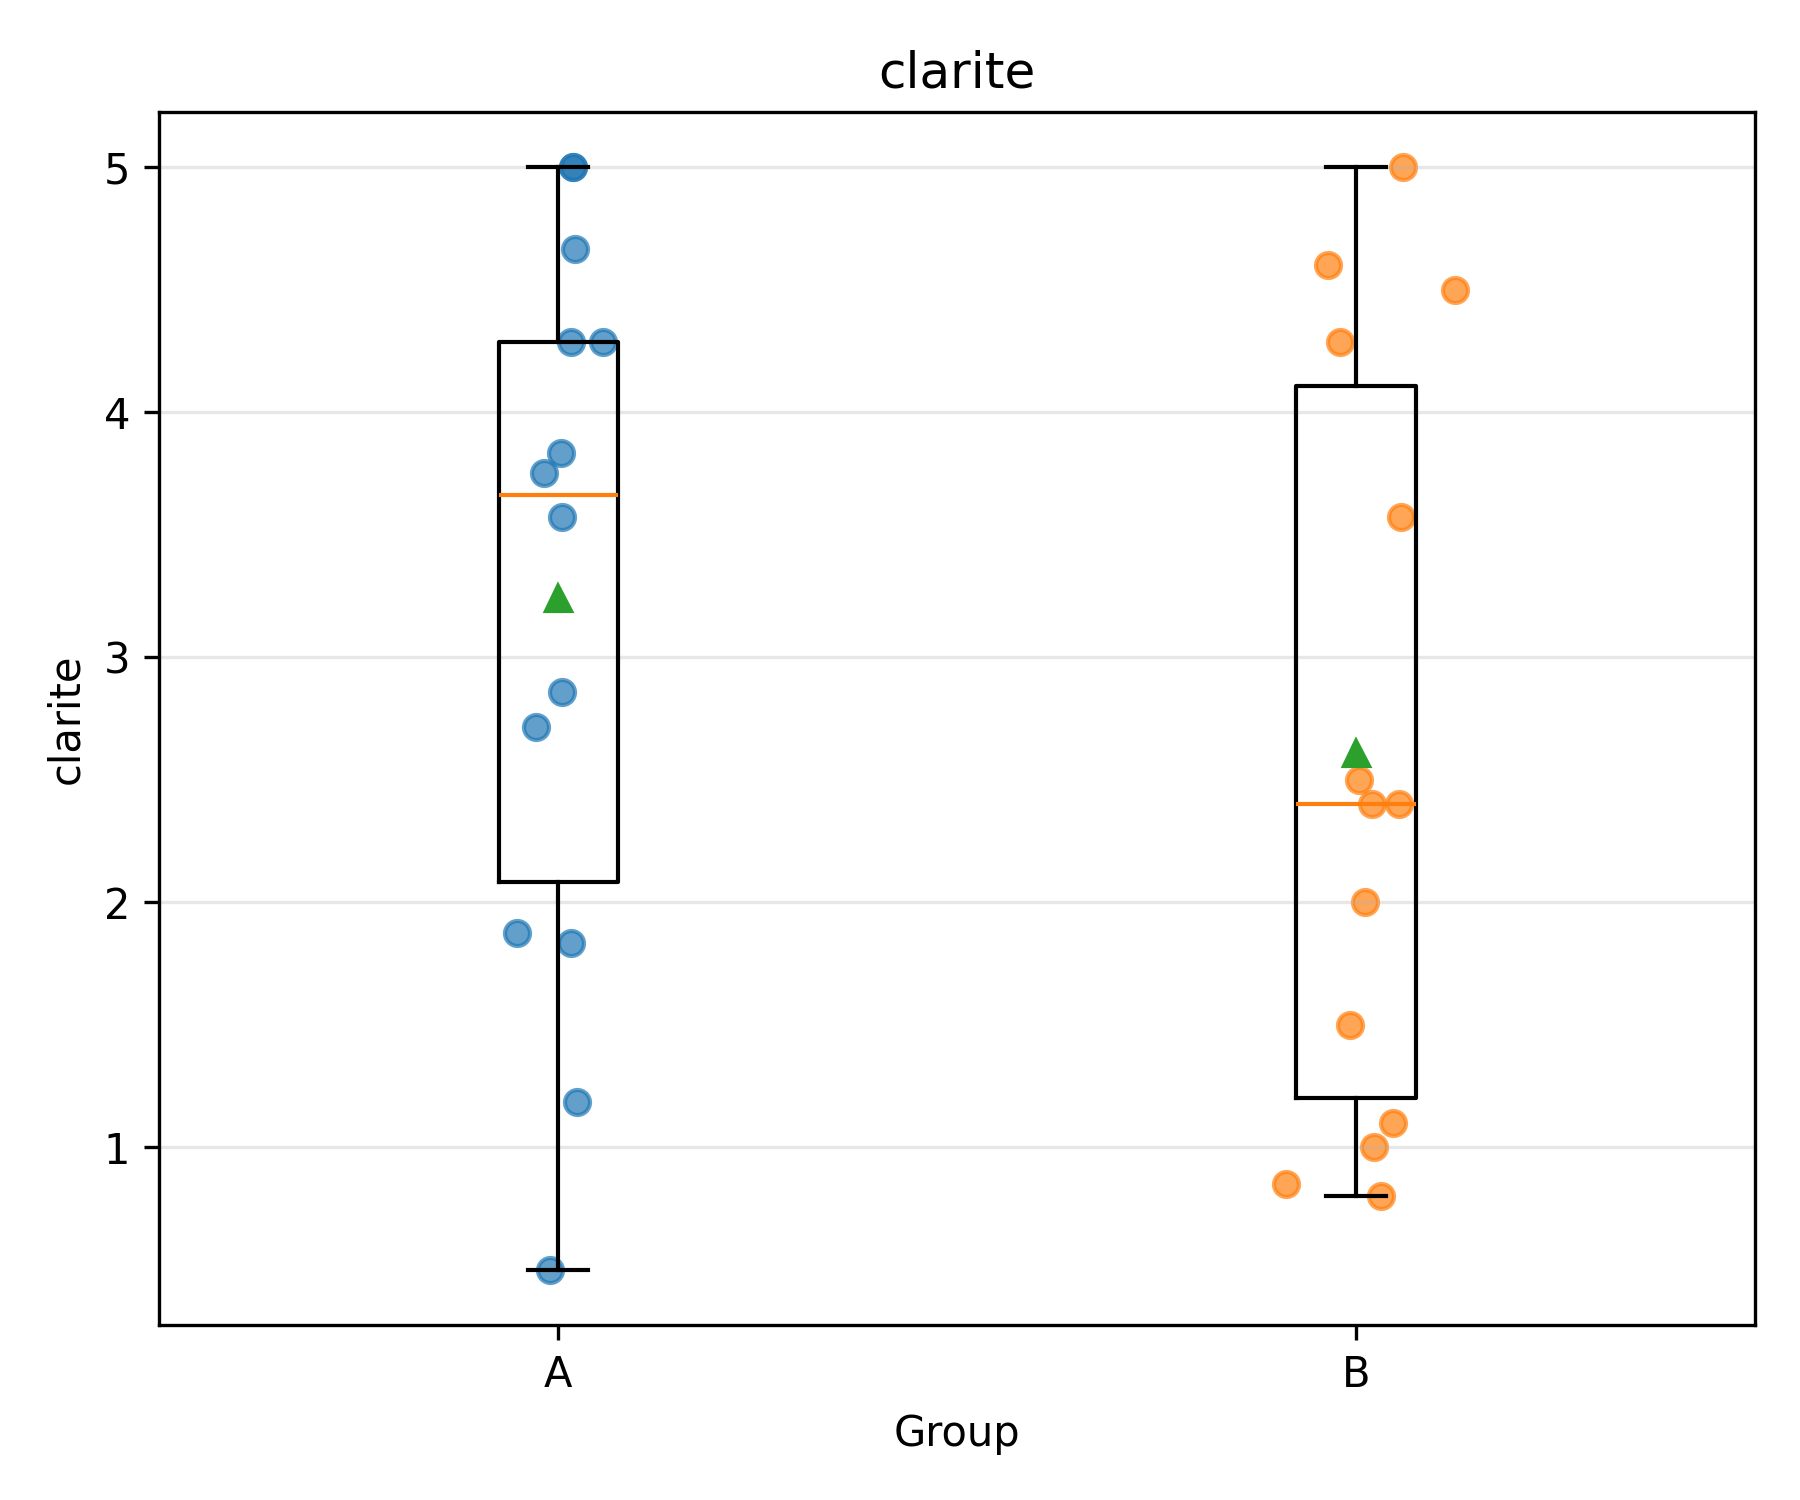
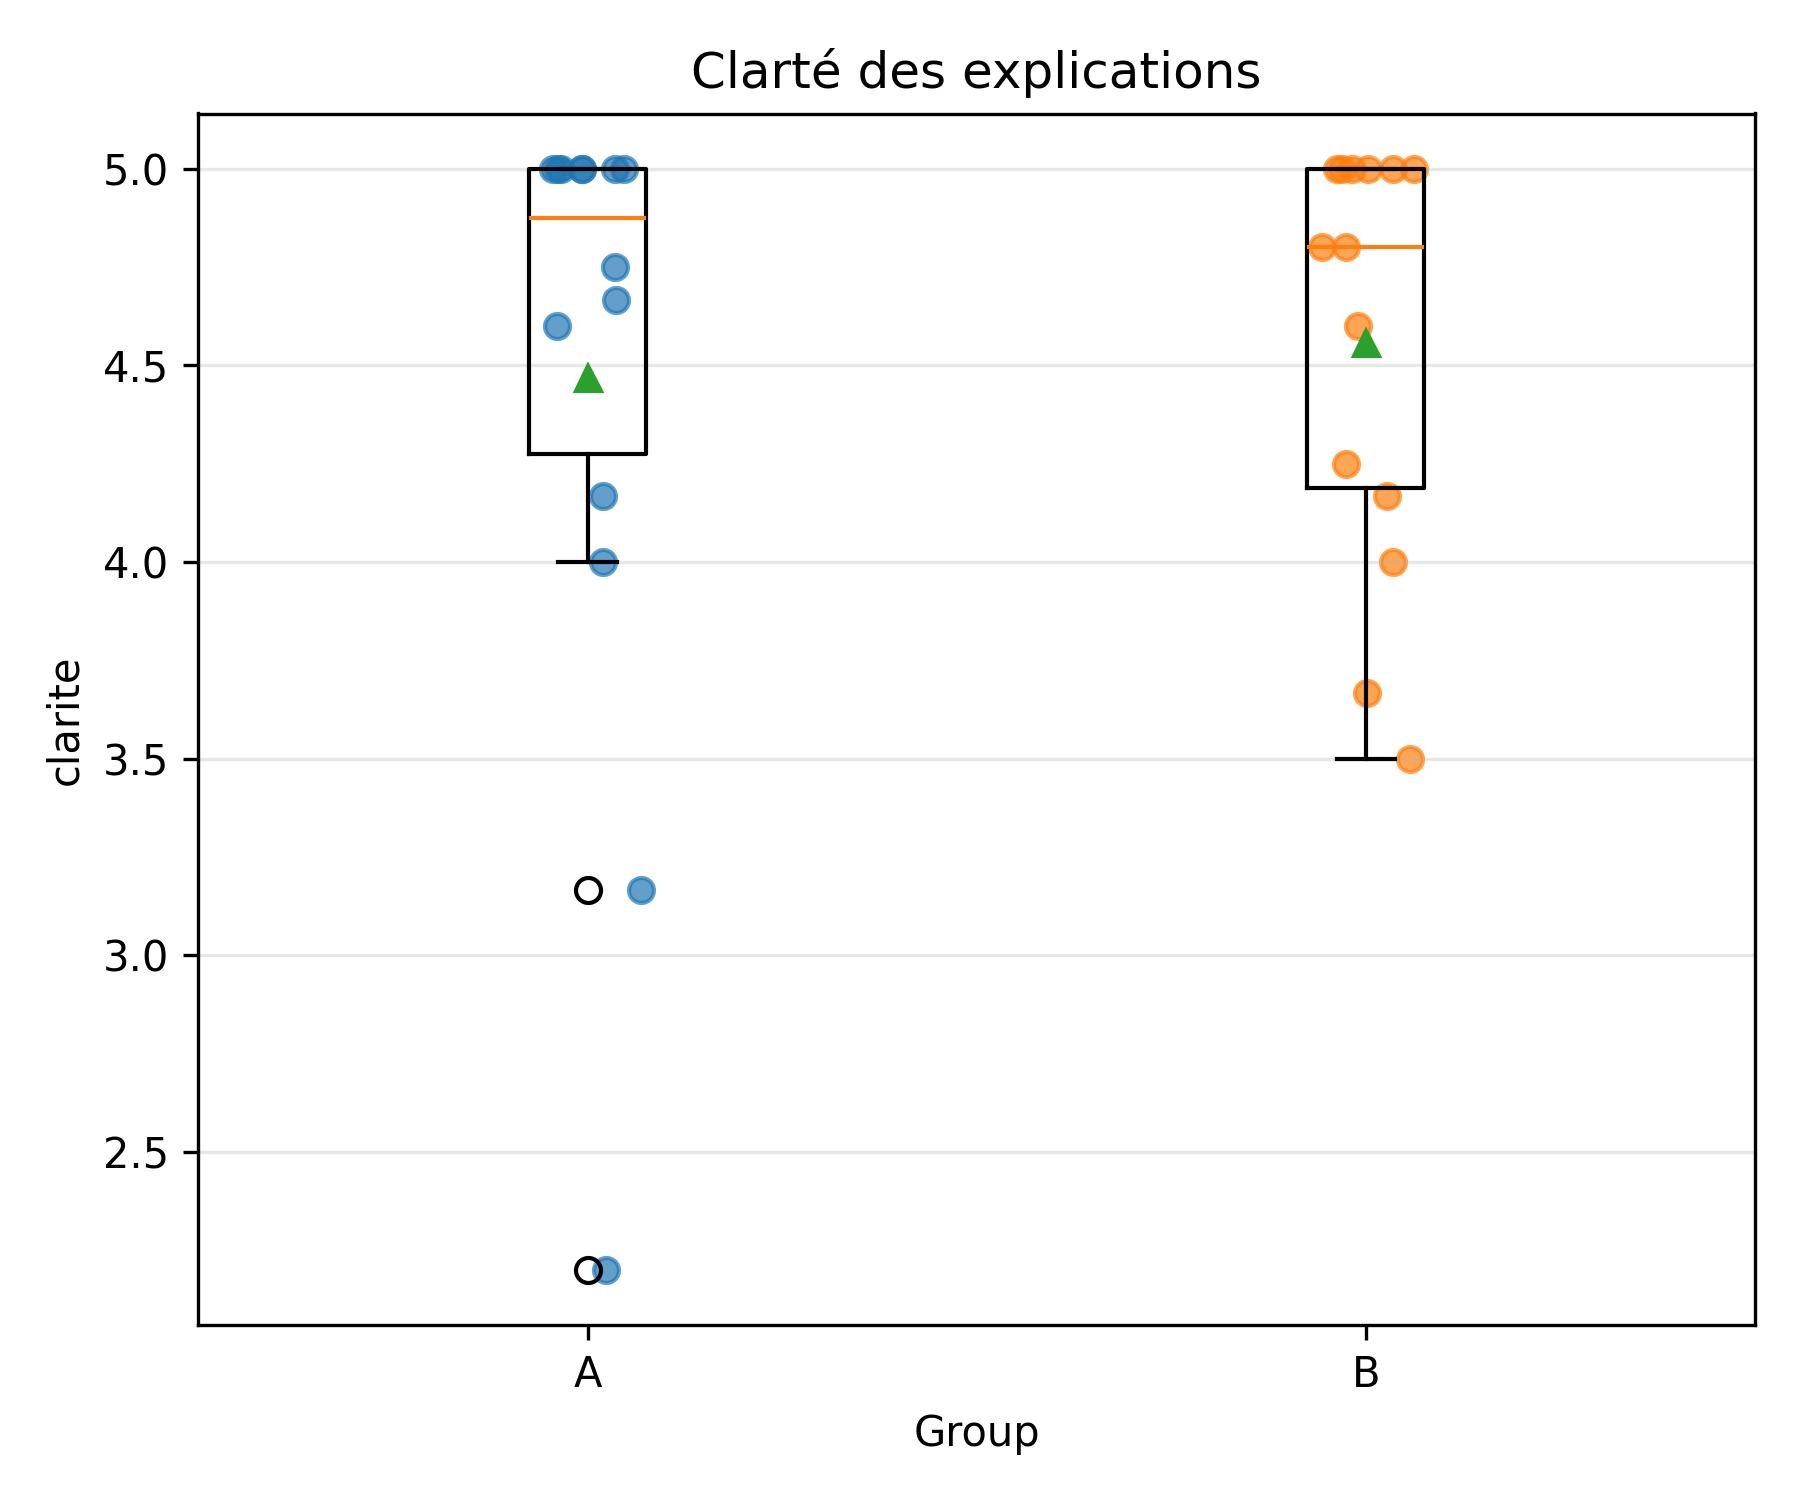
results/plots update

diff --git a/simplified-stats/simplified-stats.py b/simplified-stats/simplified-stats.py
@@ -10,7 +10,7 @@ from scipy.stats import mannwhitneyu, fisher_exact
 # CONFIG
 # ============================================================
 
-INPUT_CSV = "participant_table.csv"
+INPUT_CSV = "final-final.csv"
 
 OUTPUT_DIR = "statistics_output"
 PLOTS_DIR = os.path.join(OUTPUT_DIR, "plots")
@@ -277,7 +277,42 @@ for var in CONTINUOUS_VARIABLES:
     plt.scatter(x_a, a, alpha=0.7)
     plt.scatter(x_b, b, alpha=0.7)
 
-    plt.title(var)
+    if var == "seances":
+        plot_title = "Réalisation des séances prévues"
+
+    elif var == "clarite":
+        plot_title = "Clarté des explications"
+
+    elif var == "respect_consignes":
+        plot_title = "Respect de l'intensité et des consignes"
+
+    elif var == "satisfaction_seance":
+        plot_title = "Satisfaction des séances"
+
+    elif var == "confiance":
+        plot_title = "Confiance pour poursuivre le programme"
+
+    elif var == "recommandation":
+        plot_title = "Recommandation des séances à une amie"
+
+    elif var == "completion_suivi":
+        plot_title = "Taux de complétion du suivi"
+
+    elif var == "satisfaction_generale_algorithme":
+        plot_title = "Satisfaction générale vis-à-vis de l'algorithme"
+
+    elif var == "nombre_problemes_algorithme":
+        plot_title = "Nombre de problèmes rapportés avec l'algorithme"
+
+    elif var == "nombre_sessions_nolio":
+        plot_title = "Nombre de sessions Nolio valides"
+
+    else:
+        plot_title = var
+
+    plt.title(plot_title)
+    plt.xlabel("Groupe")
+    plt.ylabel(plot_title)
     plt.xlabel("Group")
     plt.ylabel(var)
     plt.grid(axis="y", alpha=0.3)
@@ -318,16 +353,39 @@ for var in BINARY_VARIABLES:
 
     plt.bar(["A", "B"], percentages)
 
-    plt.title(var)
-    plt.xlabel("Group")
-    plt.ylabel("% True")
+
+    if var == "reached_30min_ever":
+        plt.title("Courir pendant 30 min")
+        file_name = "barplot_course_30_min.png"
+
+    elif var == "completion_suivi_ge80":
+        plt.title("Taux de complétion du suivi ≥ 80 %")
+        file_name = "barplot_completion_suivi_80_pourcent.png"
+
+    elif var == "satisfaction_seance_ge4":
+        plt.title("Satisfaction des séances ≥ 4")
+        file_name = "barplot_satisfaction_seances_ge4.png"
+
+    elif var == "satisfaction_algorithme_ge4":
+        plt.title("Taux de satisfaction générale (réponses ≥ 4)")
+        file_name = "barplot_taux_satisfaction_generale_ge4.png"
+
+    elif var == "any_algorithm_problem":
+        plt.title("Au moins un problème rapporté avec l'algorithme")
+        file_name = "barplot_probleme_algorithme.png"
+
+    else:
+        plt.title(var)
+        file_name = f"barplot_{var}.png"
+
+    plt.xlabel("Groupe")
+    plt.ylabel("% de participantes")
     plt.ylim(0, 100)
     plt.grid(axis="y", alpha=0.3)
 
     plt.tight_layout()
 
-    safe_name = var.replace(" ", "_").replace("/", "_")
-    plot_path = os.path.join(PLOTS_DIR, f"barplot_{safe_name}.png")
+    plot_path = os.path.join(PLOTS_DIR, file_name)
 
     plt.savefig(plot_path, dpi=300)
     plt.close()
